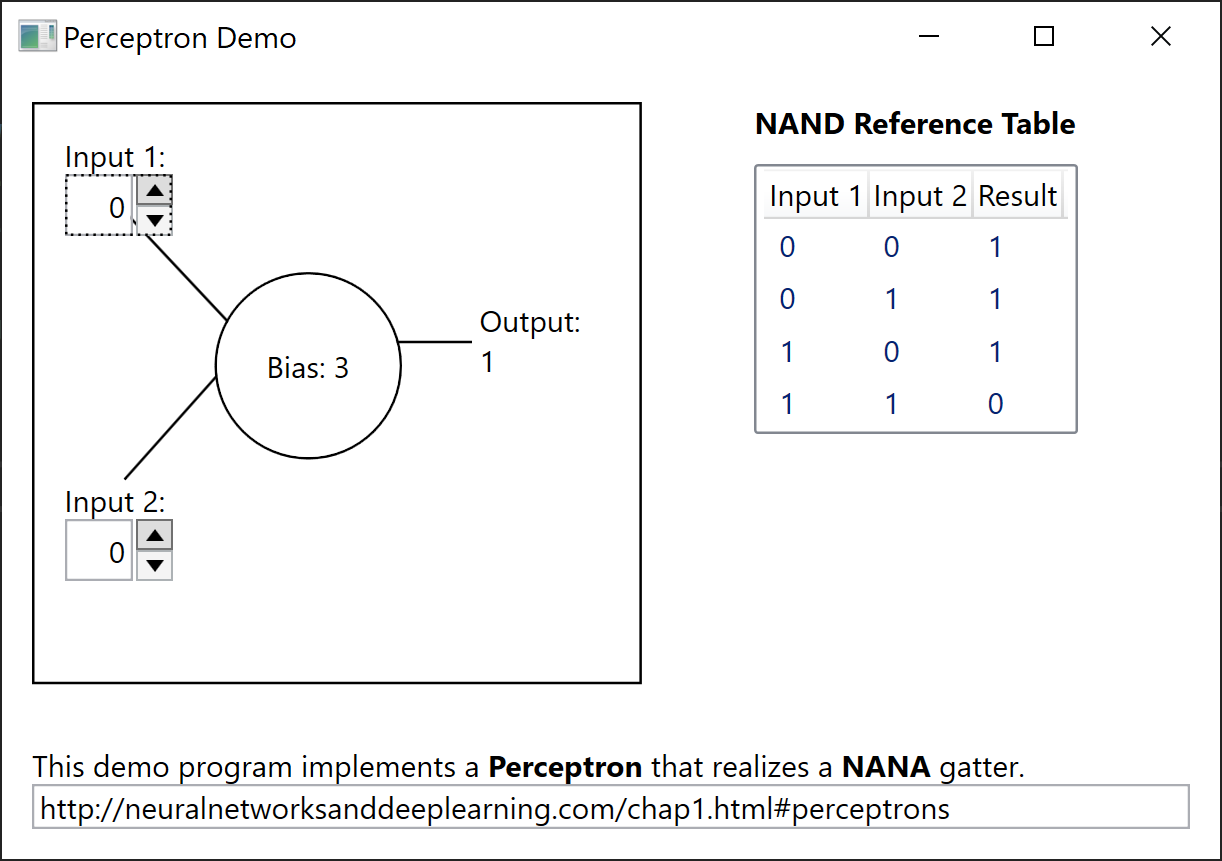
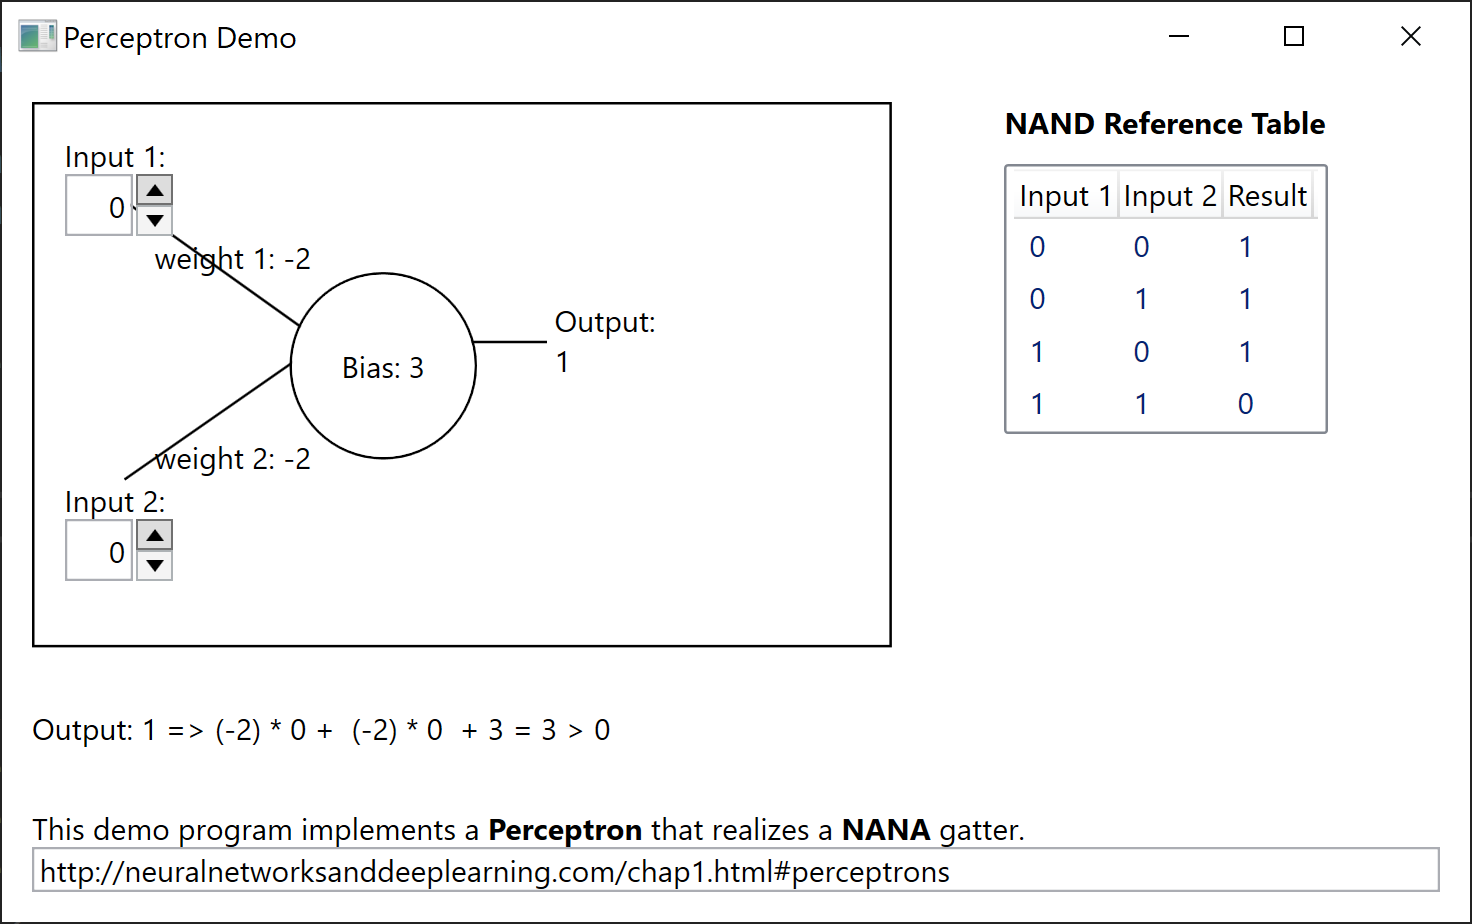
update perceptron demo

diff --git a/NeuralNetworks/00_PerceptronDemo/NandPerceptron/NandPerceptron/MainWindow.xaml b/NeuralNetworks/00_PerceptronDemo/NandPerceptron/NandPerceptron/MainWindow.xaml
@@ -7,13 +7,14 @@
     xmlns:mc="http://schemas.openxmlformats.org/markup-compatibility/2006"
     xmlns:numupdown="clr-namespace:NumericUpDownLib;assembly=NumericUpDownLib"
     Title="Perceptron Demo"
-    Width="500"
-    Height="350"
+    Width="600"
+    Height="375"
     mc:Ignorable="d">
 
     <Grid>
         <Grid.RowDefinitions>
             <RowDefinition Height="*" />
+            <RowDefinition Height="Auto" />
             <RowDefinition Height="Auto" />
         </Grid.RowDefinitions>
 
@@ -34,24 +35,45 @@
                         Stroke="Black"
                         StrokeThickness="1"
                         X1="24"
-                        X2="85"
                         Y1="30"
+                        
+                        X2="115"
                         Y2="95" />
                     <Line
                         Stroke="Black"
                         StrokeThickness="1"
                         X1="36"
-                        X2="85"
                         Y1="150"
+                        
+                        X2="115"
                         Y2="95" />
 
                     <Line
                         Stroke="Black"
                         StrokeThickness="1"
-                        X1="85"
-                        X2="175"
+                        X1="115"
                         Y1="95"
+
+                        X2="205"
                         Y2="95" />
+
+                    <StackPanel
+                        Canvas.Left="45"
+                        Canvas.Top="50"
+                        Margin="3"
+                        HorizontalAlignment="Center"
+                        VerticalAlignment="Center">
+                        <TextBlock Text="{Binding Weight1, Mode=TwoWay, UpdateSourceTrigger=PropertyChanged,StringFormat='weight 1: {0}'}"/>
+                    </StackPanel>
+
+                    <StackPanel
+                        Canvas.Left="45"
+                        Canvas.Top="130"
+                        Margin="3"
+                        HorizontalAlignment="Center"
+                        VerticalAlignment="Center">
+                        <TextBlock Text="{Binding Weight2, Mode=TwoWay, UpdateSourceTrigger=PropertyChanged,StringFormat='weight 2: {0}'}"/>
+                    </StackPanel>
 
                     <StackPanel
                         Canvas.Left="12"
@@ -76,7 +98,7 @@
                     </StackPanel>
 
                     <Border
-                        Canvas.Left="39"
+                        Canvas.Left="69"
                         Canvas.Top="55"
                         Width="75"
                         Height="75"
@@ -95,7 +117,7 @@
                     </Border>
 
                     <StackPanel
-                        Canvas.Left="175"
+                        Canvas.Left="205"
                         Canvas.Top="75"
                         Margin="3"
                         HorizontalAlignment="Center"
@@ -139,6 +161,16 @@
         </Grid>
 
         <StackPanel Grid.Row="1" Margin="12" Orientation="Vertical">
+            <TextBlock>
+                <TextBlock Text="{Binding Output, Mode=OneWay, UpdateSourceTrigger=PropertyChanged,StringFormat='Output: {0} =>'}" />
+                <TextBlock Text="{Binding Weight1, Mode=OneWay, UpdateSourceTrigger=PropertyChanged,StringFormat='({0}) *'}"/><TextBlock Text="{Binding Input1, Mode=OneWay, UpdateSourceTrigger=PropertyChanged,StringFormat=' {0} + '}"/> 
+                <TextBlock Text="{Binding Weight2, Mode=OneWay, UpdateSourceTrigger=PropertyChanged,StringFormat='({0}) *'}"/><TextBlock Text="{Binding Input2, Mode=OneWay, UpdateSourceTrigger=PropertyChanged,StringFormat=' {0}'}"/>
+                <TextBlock Text="{Binding Bias, Mode=OneWay, UpdateSourceTrigger=PropertyChanged,StringFormat=' + {0}'}"/><TextBlock Text="{Binding TempResult, Mode=OneWay, UpdateSourceTrigger=PropertyChanged,StringFormat=' = {0}'}"/>
+                <TextBlock Text="{Binding TempResultDescr, Mode=OneWay, UpdateSourceTrigger=PropertyChanged}"/>
+            </TextBlock>
+        </StackPanel>
+
+        <StackPanel Grid.Row="2" Margin="12" Orientation="Vertical">
             <TextBlock>This demo program implements a
                 <TextBlock FontWeight="Bold">Perceptron</TextBlock> that realizes a
                 <TextBlock FontWeight="Bold">NANA</TextBlock> gatter.</TextBlock>

diff --git a/NeuralNetworks/00_PerceptronDemo/NandPerceptron/NandPerceptron/ViewModels/AppViewModel.cs b/NeuralNetworks/00_PerceptronDemo/NandPerceptron/NandPerceptron/ViewModels/AppViewModel.cs
@@ -10,9 +10,11 @@ namespace NandPerceptron.ViewModels
         #region fields
         private byte _Input1, _Input2;
         private byte _Output;
+        private double _Weight2, _Weight1;
         private double _Bias = 3;
 
         private List<BinaryOperation> _NandItems;
+        private double _TempResult;
         #endregion fields
 
         #region ctors
@@ -29,7 +31,9 @@ namespace NandPerceptron.ViewModels
             
             _Input1 = 0;
             _Input2 = 0;
-            OnComputePerceptron(Input1, Input2, Bias);
+            _Weight1 = -2;
+            _Weight2 = -2;
+            OnComputePerceptron(Input1, Weight1, Input2, Weight2, Bias);
         }
         #endregion ctors
 
@@ -48,7 +52,7 @@ namespace NandPerceptron.ViewModels
                     _Input1 = value;
                     NotifyPropertyChanged(() => Input1);
 
-                    OnComputePerceptron(_Input1, _Input2, Bias);
+                    OnComputePerceptron(Input1, Weight1, Input2, Weight2, Bias);
                 }
             }
         }
@@ -67,11 +71,48 @@ namespace NandPerceptron.ViewModels
                     _Input2 = value;
                     NotifyPropertyChanged(() => Input2);
 
-                    OnComputePerceptron(_Input1, _Input2, Bias);
+                    OnComputePerceptron(Input1, Weight1, Input2, Weight2, Bias);
                 }
             }
         }
 
+        /// <summary>
+        /// Gets/sets values for weight parameter 1 (actual values should always be 1 or 0).
+        /// </summary>
+        public double Weight1
+        {
+            get { return _Weight1; }
+
+            set
+            {
+                if (value != _Weight1)
+                {
+                    _Weight1 = value;
+                    NotifyPropertyChanged(() => Weight1);
+
+                    OnComputePerceptron(Input1, Weight1, Input2, Weight2, Bias);
+                }
+            }
+        }
+
+        /// <summary>
+        /// Gets/sets values for weight parameter 2 (actual values should always be 1 or 0).
+        /// </summary>
+        public double Weight2
+        {
+            get { return _Weight2; }
+
+            set
+            {
+                if (value != _Weight2)
+                {
+                    _Weight2 = value;
+                    NotifyPropertyChanged(() => Weight2);
+
+                    OnComputePerceptron(Input1, Weight1, Input2, Weight2, Bias);
+                }
+            }
+        }
 
         /// <summary>
         /// Gets the Bias which controls with <see cref="Input1"/> and <see cref="Input2"/>
@@ -88,6 +129,32 @@ namespace NandPerceptron.ViewModels
                     _Bias = value;
                     NotifyPropertyChanged(() => Output);
                 }
+            }
+        }
+
+        public double TempResult
+        {
+            get { return _TempResult; }
+
+            protected set
+            {
+                if (value != _TempResult)
+                {
+                    _TempResult = value;
+                    NotifyPropertyChanged(() => TempResult);
+                    NotifyPropertyChanged(() => TempResultDescr);
+                }
+            }
+        }
+
+        public string TempResultDescr
+        {
+            get
+            {
+                if (TempResult <= 0)
+                    return "<= 0";
+                else
+                    return "> 0";
             }
         }
 
@@ -118,14 +185,15 @@ namespace NandPerceptron.ViewModels
         #endregion properties
 
         #region methods
-        private void OnComputePerceptron(double input_1, double input_2, double bias)
+        private void OnComputePerceptron(double input_1, double weight_1
+                                       , double input_2, double weight_2, double bias)
         {
-            var weights = new double[2]{ -2, -2 };
+            var weights = new double[2]{ weight_1, weight_2 };
             var inputs = new double[2] { input_1, input_2 };
 
-            double output = ComputePerceptron(weights, inputs);
+            TempResult = ComputePerceptron(weights, inputs) + bias;
 
-            if ((output + bias) > 0)
+            if (TempResult > 0)
                 Output = 1;
             else
                 Output = 0;

diff --git a/NeuralNetworks/00_PerceptronDemo/Readme.md b/NeuralNetworks/00_PerceptronDemo/Readme.md
@@ -6,3 +6,4 @@ as descriped here: [](http://neuralnetworksanddeeplearning.com/chap1.html#percep
 
 ![](screenshot.png)
 ![](screenshot1.png)
+![](screenshot2.png)
